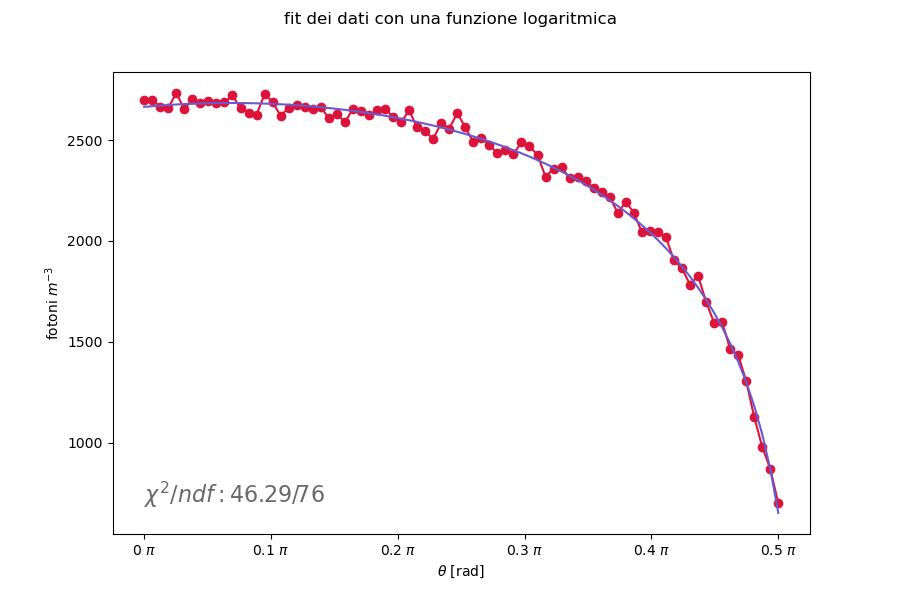
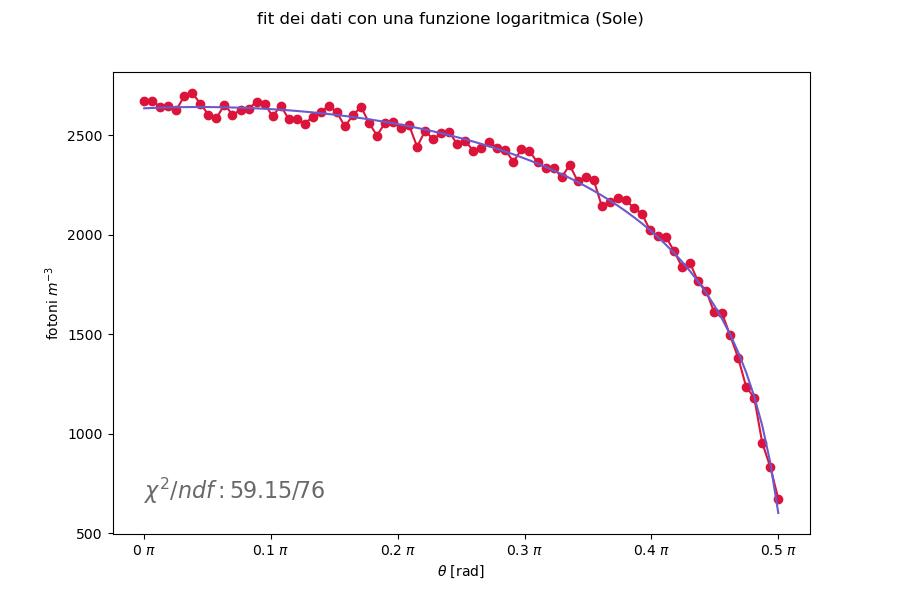
modified

diff --git a/tramonti.py b/tramonti.py
@@ -85,7 +85,7 @@ def tramonti():
 		
 		#grafico della densità dei fotoni che arrivano dalla stella
 		fig, (ax1, ax2) = plt.subplots(2, sharex=True, figsize = (9,6))
-		fig.suptitle( "densità e distribuzione dei fotoni in funzione della lunghezza d'onda (no assorbimento)")
+		fig.suptitle( "densità e distribuzione dei fotoni in funzione della lunghezza d'onda (no assorbimento) ({:})".format(name))
 		ax1.plot(lt,den,color='royalblue'           )
 		ax1.set(ylabel='densità dei fotoni [$m^-3$]'                             )
 		ax1.set_title('densità')
@@ -114,7 +114,7 @@ def tramonti():
 		fig, (ax3, ax4) = plt.subplots(2,sharex=True, figsize = (9,6))
 		ax3.plot(lt, abd,color='orange')
 		ax3.set(ylabel=r'densità fotoni [$m^{-3}$]')
-		fig.suptitle("densità e distribuzione dei fotoni in funzione della lunghezza d'onda (ZENITH)")
+		fig.suptitle("densità e distribuzione dei fotoni in funzione della lunghezza d'onda (ZENITH) ({:})".format(name))
 		ax3.set_title('densità')
 		
 		#metto in un istogramma i dati raccolti
@@ -143,7 +143,7 @@ def tramonti():
 		ax5.plot(lt, abd2,color='turquoise')
 		ax5.set(ylabel=r'densità dei fotoni [$m^{-3}$]')
 		ax5.set_title('densità')
-		fig.suptitle("densità e distribuzione dei fotoni in funzione della lunghezza d'onda (ORIZZONTE)")
+		fig.suptitle("densità e distribuzione dei fotoni in funzione della lunghezza d'onda (ORIZZONTE)({:})".format(name))
 		
 		#grafico della distribuzione dei fotoni usando il metodo 
 		#montecarlo
@@ -175,7 +175,7 @@ def tramonti():
 		ax.plot(theta/np.pi,fl_int,'-o',color='crimson')		
 		ax.xaxis.set_major_formatter(tck.FormatStrFormatter(r'%g $\pi$'))
 		ax.xaxis.set_major_locator(tck.MultipleLocator(base=0.1))
-		plt.suptitle("flusso integrato di fotoni in funzione dell'angolo")
+		plt.suptitle("flusso integrato di fotoni in funzione dell'angolo ({:})".format(name))
 		plt.xlabel(r'$\theta$ [rad]')
 		plt.ylabel("numero di fotoni $[m^{-3}]$")
 		#plt.savefig('immagini/phot_flux_{:}.jpeg'.format(name))
@@ -184,18 +184,18 @@ def tramonti():
 		#provop a fare il fit con una funzione per interpretare 
 		#il modo in cui decresce il flusso di fotoni in 
 		#funzione dell'angolo theta
-		def fit(x, A, B, C, D):
+		def fit(x, A, B, C):
 			"""
 			funzione per il fit con i dati dei fotoni rilevati
 			in funzione dell'angolo che individua la posizione 
 			della stella rispetto allo Zenith
 			"""
-			return A*np.log(B*x**2+C*x+D)
+			return A+B*np.log(np.cos(x)+C)
 
-		pstart = np.array([1,1,1,1])
+		pstart = np.array([600,1300,0.5])
 		p, pcov = optimize.curve_fit(fit, theta, fl_int, p0=[pstart])
-		print("i valori ricavati dal fit per le costanti sono: A =", p[0],", B =", p[1])
-		y = fit(theta, p[0], p[1], p[2], p[3])
+		print("i valori ricavati dal fit per le costanti sono: A =", p[0],", B =", p[1],", C=",p[2])
+		y = fit(theta, p[0], p[1], p[2])
 		
 		#test del chi quadro
 		chi2 = np.sum((y-fl_int)**2 /fl_int)
@@ -207,7 +207,7 @@ def tramonti():
 		ax.xaxis.set_major_formatter(tck.FormatStrFormatter(r'%g $\pi$'))
 		ax.xaxis.set_major_locator(tck.MultipleLocator(base=0.1))
 		plt.plot(theta/np.pi,y, color='slateblue')
-		plt.suptitle('fit dei dati con una funzione logaritmica')
+		plt.suptitle('fit dei dati con una funzione logaritmica ({:})'.format(name))
 		plt.xlabel(r'$\theta$ [rad]')
 		plt.ylabel('fotoni $m^{-3}$')
 		plt.text(0, min(fl_int), r'$\chi^2 / ndf : {:3.2f} / {:d}$'.format(chi2, ndf), fontsize=16, color='dimgray')

diff --git a/StellaX.py b/StellaX.py
@@ -71,7 +71,7 @@ plt.plot(ld, y, color='limegreen', label='curva del fit')
 plt.xlabel(r'$\lambda$ (nm)')
 plt.ylabel('densità fotoni')
 plt.text(2e-6,0.8, r'T={:.0f} $\pm$ {:.0f} K'.format(p[0],error), fontsize=16)
-plt.text(2e-6,0.7, r'$\chi$/ndf = {:.4f}'.format(chi2/ndf), fontsize=16)
+plt.text(2e-6,0.7, r'$\chi^2$/ndf = {:.4f}'.format(chi2/ndf), fontsize=16)
 plt.suptitle('fit dei punti forniti')
 #plt.savefig('immagini/fit_funzione.jpeg')
 
